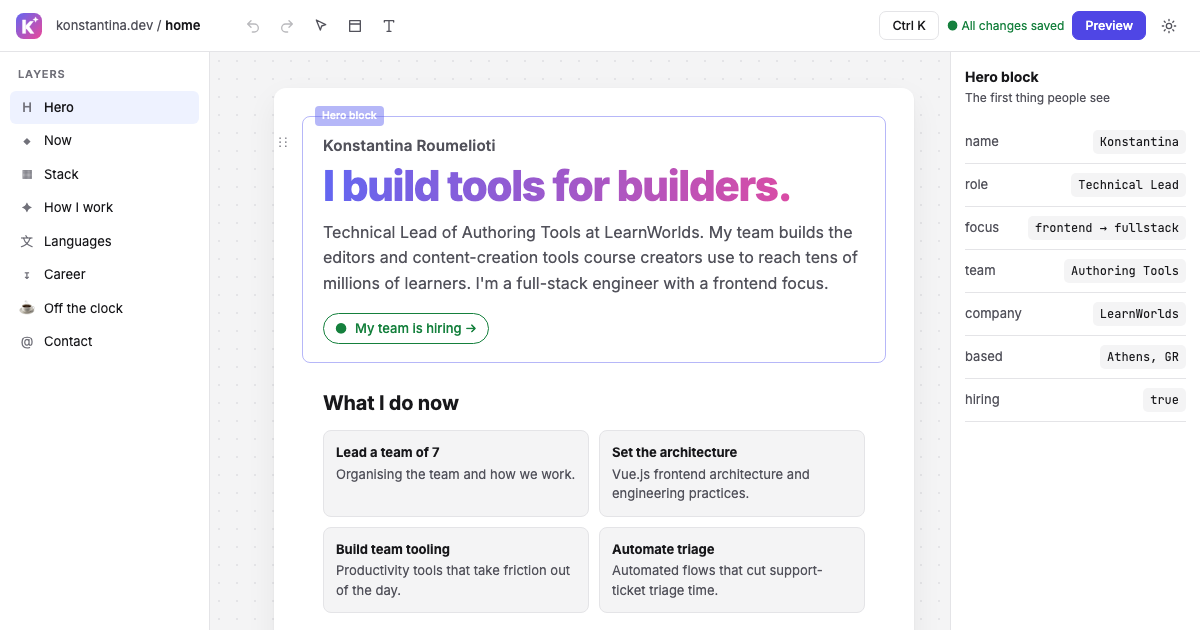
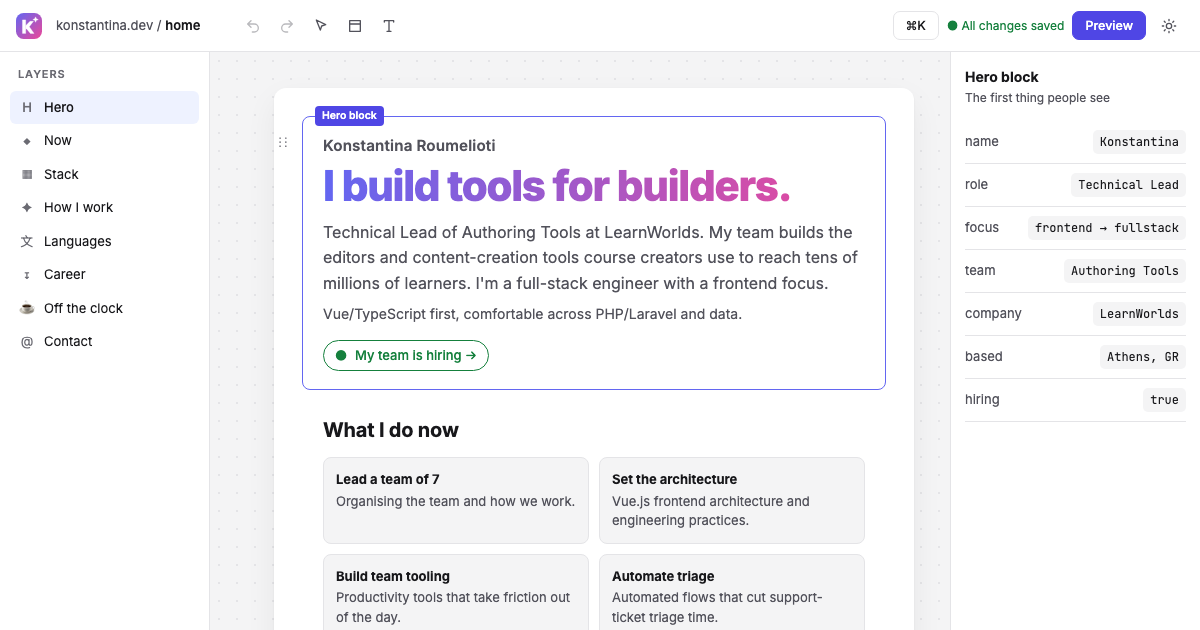
chore: Latin-only fonts and a settled social card
- Load only the Latin subsets of Inter (variable) and JetBrains Mono
  400/500. The render-blocking stylesheet drops from 39 KB to 15 KB.
- Capture og.png with reduced motion, after animations finish, with the
  Mac shortcut hint, so the selection outline and block label are solid.
- Correct the comment about which process the Lighthouse script stops.

Changed region(s): [[0.2467, 0.4825, 0.6783, 0.9952], [0.2467, 0.1508, 0.3392, 0.2111], [0.74, 0.0302, 0.7708, 0.0603]]

diff --git a/scripts/og.ts b/scripts/og.ts
@@ -35,9 +35,19 @@ async function ensureServer(): Promise<ChildProcess | null> {
 const server = await ensureServer()
 const browser = await chromium.launch()
 try {
-  // Social card: editor mode, light theme, Hero selected.
-  const ctx = await browser.newContext({ viewport: { width: 1200, height: 630 }, deviceScaleFactor: 1 })
-  await ctx.addInitScript(() => localStorage.setItem('kd-theme', 'light'))
+  // Social card: editor mode, light theme, Hero selected, at rest (no fades caught
+  // mid-way), with the Mac shortcut hint (⌘K) whatever machine runs this.
+  const ctx = await browser.newContext({
+    viewport: { width: 1200, height: 630 },
+    deviceScaleFactor: 1,
+    reducedMotion: 'reduce',
+  })
+  // A plain string, so the TypeScript runner adds no helpers the page doesn't have.
+  await ctx.addInitScript(`
+    localStorage.setItem('kd-theme', 'light');
+    Object.defineProperty(Navigator.prototype, 'platform', { get() { return 'MacIntel' } });
+    Object.defineProperty(Navigator.prototype, 'userAgentData', { get() { return { platform: 'macOS' } } });
+  `)
   const page = await ctx.newPage()
   await page.goto(ORIGIN + '/')
   await page.waitForFunction(() => Boolean((document.querySelector('#app') as any)?.__vue_app__))
@@ -45,6 +55,8 @@ try {
   await page.locator('.blk.sel').waitFor()
   await page.evaluate(() => document.fonts.ready)
   await page.mouse.move(1190, 620)
+  await page.evaluate(() => Promise.all(document.getAnimations().map((a) => a.finished.catch(() => null))))
+  await page.evaluate(() => new Promise((r) => requestAnimationFrame(() => requestAnimationFrame(r))))
   await page.screenshot({ path: 'public/og.png' })
   await ctx.close()
 

diff --git a/src/styles/fonts.css b/src/styles/fonts.css
@@ -1,0 +1,13 @@
+/*
+ * Self-hosted fonts, Latin subset only (the site's copy is all Latin).
+ * Inter is the variable build; JetBrains Mono comes in the two weights the inspector uses.
+ */
+@font-face {
+  font-family: 'Inter Variable';
+  font-style: normal;
+  font-display: swap;
+  font-weight: 100 900;
+  src: url('@fontsource-variable/inter/files/inter-latin-wght-normal.woff2') format('woff2-variations');
+  unicode-range: U+0000-00FF, U+0131, U+0152-0153, U+02BB-02BC, U+02C6, U+02DA, U+02DC, U+0304, U+0308, U+0329,
+    U+2000-206F, U+20AC, U+2122, U+2191, U+2193, U+2212, U+2215, U+FEFF, U+FFFD;
+}

diff --git a/src/main.ts b/src/main.ts
@@ -1,7 +1,7 @@
 import { ViteSSG } from 'vite-ssg/single-page'
-import '@fontsource-variable/inter'
-import '@fontsource/jetbrains-mono/400.css'
-import '@fontsource/jetbrains-mono/500.css'
+import './styles/fonts.css'
+import '@fontsource/jetbrains-mono/latin-400.css'
+import '@fontsource/jetbrains-mono/latin-500.css'
 import './styles/tokens.css'
 import './styles/base.css'
 import App from './App.vue'
